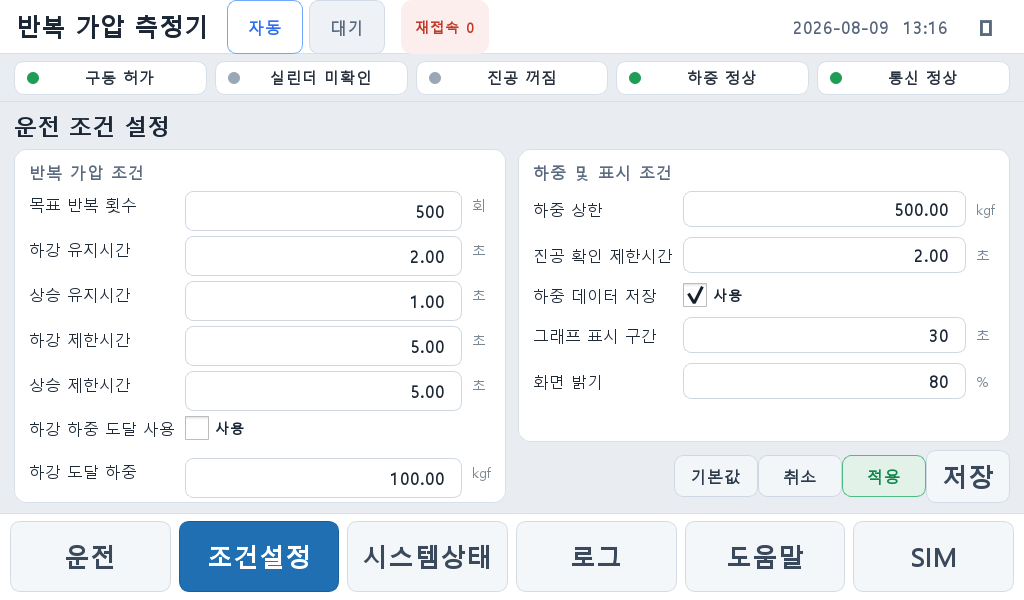
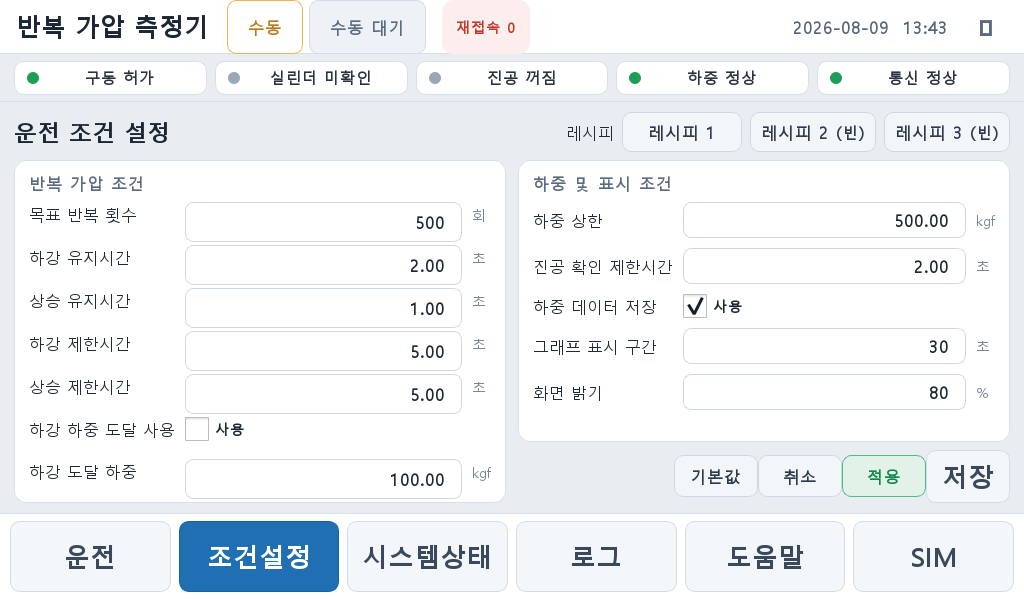
docs(manual): 제어함 스위치 설명 + 레시피 저장/불러오기 추가
- 6.1 제어함(전면) 스위치: 제어함 이미지 + 번호 콜아웃(1~6) + 역할 표
  (Auto Run/Start·Auto Stop·AUTO/MANUAL·Manual Up/Down·MAIN POWER).
- 8.4.1 레시피 저장·불러오기: 저장 절차 + 슬롯 선택 다이얼로그 그림, 불러오기 절차.
  조건설정 콜아웃에 레시피 버튼(6) 반영.
- 이미지 3종 추가/갱신, manual.pdf 재생성.

diff --git a/docs/manual/manual.html b/docs/manual/manual.html
@@ -184,9 +184,35 @@
   </ul>
 
   <h2>6. 각부 명칭</h2>
-  <p class="muted">[그림] 전면도/후면도(번호 라벨) — 실물 사진 삽입 예정.</p>
-  <p>비상정지 · 메인 전원 · 터치스크린 · Auto Start/Stop · Manual Up/Down · AUTO/MANUAL 셀렉터 ·
-     가압 실린더 · 로드셀 · 라이트 커튼 · 작업 테이블 · 스피드 컨트롤러 · 공압 필터·레귤레이터.</p>
+  <h3>6.1 제어함(전면) 스위치</h3>
+  <p>제어함 전면에는 터치스크린(HMI)과 아래의 조작 스위치가 있습니다. 각 스위치의 역할은 다음과 같습니다.
+     (제어함 250 × 350 mm, HMI 개구 148.9 × 106.96 mm)</p>
+  <figure>
+    <div class="shot" style="max-width:96mm">
+      <img src="img/06_control_box.png" alt="제어함 전면">
+      <span class="cal" style="left:25%;top:61%">1</span>
+      <span class="cal" style="left:45%;top:62%">3</span>
+      <span class="cal" style="left:67%;top:61%">4</span>
+      <span class="cal" style="left:25%;top:77%">2</span>
+      <span class="cal" style="left:45%;top:79%">6</span>
+      <span class="cal" style="left:67%;top:77%">5</span>
+    </div>
+    <figcaption>그림 6-1. 제어함 전면 스위치</figcaption>
+    <table class="legend">
+      <tr><th>번호</th><th>스위치</th><th>역할</th></tr>
+      <tr><td>1</td><td>Auto Run/Start (녹색)</td><td>자동 모드에서 <strong>자동 반복 사이클 시작</strong>. 완료 후 다시 누르면 재시작.</td></tr>
+      <tr><td>2</td><td>Auto Stop (적색)</td><td>진행 중인 <strong>자동 사이클 중지</strong>(자동 대기로 복귀).</td></tr>
+      <tr><td>3</td><td>AUTO / MANUAL 셀렉터</td><td><strong>운전 모드 선택</strong>. 좌=AUTO(자동), 우=MANUAL(수동).</td></tr>
+      <tr><td>4</td><td>Manual Up (백색)</td><td>수동 모드에서 <strong>실린더 상승</strong>(누르는 동안, 상승 센서 도달 시 정지).</td></tr>
+      <tr><td>5</td><td>Manual Down (흑색)</td><td>수동 모드에서 <strong>실린더 하강/가압</strong>(누르는 동안).</td></tr>
+      <tr><td>6</td><td>MAIN POWER (로커)</td><td>장비 <strong>메인 전원</strong> ON( I ) / OFF( O ).</td></tr>
+    </table>
+  </figure>
+  <div class="note">비상정지(EMO)·라이트 커튼은 안전 장치로 별도 위치에 있으며, 동작 시 화면 상단이
+     “구동 차단”으로 바뀌고 안전 정지됩니다(§1.2).</div>
+  <h3>6.2 기타 부위</h3>
+  <p class="muted">[그림] 가압 실린더 · 로드셀 · 라이트 커튼 · 작업 테이블 · 스피드 컨트롤러 ·
+     공압 필터·레귤레이터 · (후면) 전원 입구 · 공압 입구 — 실물 사진 삽입 예정.</p>
 
   <h2>7. 설치 준비</h2>
   <ol>
@@ -262,11 +288,12 @@
   <figure>
     <div class="shot">
       <img src="img/02_settings.png" alt="조건 설정 화면">
-      <span class="cal" style="left:12%;top:25%">1</span>
-      <span class="cal" style="left:33%;top:25%">2</span>
+      <span class="cal" style="left:79%;top:22%">6</span>
+      <span class="cal" style="left:9%;top:37%">1</span>
+      <span class="cal" style="left:31%;top:37%">2</span>
       <span class="cal" style="left:20%;top:72%">3</span>
-      <span class="cal" style="left:70%;top:25%">4</span>
-      <span class="cal" style="left:80%;top:78%">5</span>
+      <span class="cal" style="left:59%;top:37%">4</span>
+      <span class="cal" style="left:86%;top:79%">5</span>
     </div>
     <figcaption>그림 8-2. 조건 설정 화면</figcaption>
     <table class="legend">
@@ -276,6 +303,7 @@
       <tr><td>3</td><td>사용 체크박스</td><td>하강 하중 도달 사용 등 on/off</td></tr>
       <tr><td>4</td><td>하중·표시 조건</td><td>하중 상한, 진공 확인 시간, 그래프 구간, 화면 밝기</td></tr>
       <tr><td>5</td><td>조작 버튼</td><td>기본값 · 취소 · <strong>적용</strong> · 저장(레시피)</td></tr>
+      <tr><td>6</td><td>레시피 버튼</td><td>레시피 1~3 불러오기(빈 슬롯은 “(빈)” 표시)</td></tr>
     </table>
   </figure>
   <table>
@@ -292,7 +320,25 @@
     <strong>중요</strong> : 값을 편집한 것만으로는 반영되지 않습니다. 반드시 <strong>[적용]</strong>을 눌러야
     운전에 반영·저장됩니다(편집 중에는 “수정됨(적용 필요)” 표시). 모든 설정 변경은 <strong>대기 상태</strong>에서만 가능합니다.
   </div>
-  <p><strong>레시피</strong> : [저장]으로 슬롯(1~3)에 현재 편집값 저장, [레시피 1/2/3]으로 불러와 즉시 적용.</p>
+  <h4>8.4.1 레시피 저장 · 불러오기</h4>
+  <p>자주 쓰는 운전 조건을 <strong>레시피 3개 슬롯</strong>에 저장해 두고 한 번에 불러올 수 있습니다.</p>
+  <p><strong>■ 레시피 저장</strong></p>
+  <ol>
+    <li>조건 설정 화면에서 저장할 값들을 편집합니다(§8.4).</li>
+    <li>오른쪽 하단 <strong>[저장]</strong> 버튼을 누릅니다.</li>
+    <li><strong>“저장할 레시피 번호를 선택하세요”</strong> 창이 뜨면 <strong>슬롯(레시피 1~3)</strong>을 누릅니다.
+        이미 저장된 슬롯은 “(사용중)”, 비어 있으면 “(빈 슬롯)”으로 표시됩니다. 선택하면 현재 편집값이 그 슬롯에 저장됩니다.</li>
+  </ol>
+  <figure>
+    <div class="shot" style="max-width:78mm"><img src="img/05_recipe_save.png" alt="레시피 저장 위치 선택"></div>
+    <figcaption>그림 8-2a. 레시피 저장 위치 선택</figcaption>
+  </figure>
+  <p><strong>■ 레시피 불러오기</strong></p>
+  <ol>
+    <li>화면 상단의 <strong>[레시피 1 / 2 / 3]</strong> 버튼을 누릅니다(비어 있으면 “(빈)”).</li>
+    <li>미리보기 확인 창에서 <strong>[예]</strong>를 누르면 그 레시피가 <strong>즉시 적용</strong>됩니다(“레시피 N 적용”).</li>
+  </ol>
+  <div class="note">레시피는 대기 상태에서만 저장/불러오기가 가능합니다. 저장 값은 전원을 껐다 켜도 유지됩니다(recipes.json).</div>
 
   <h3>8.5 시스템 상태</h3>
   <figure>
